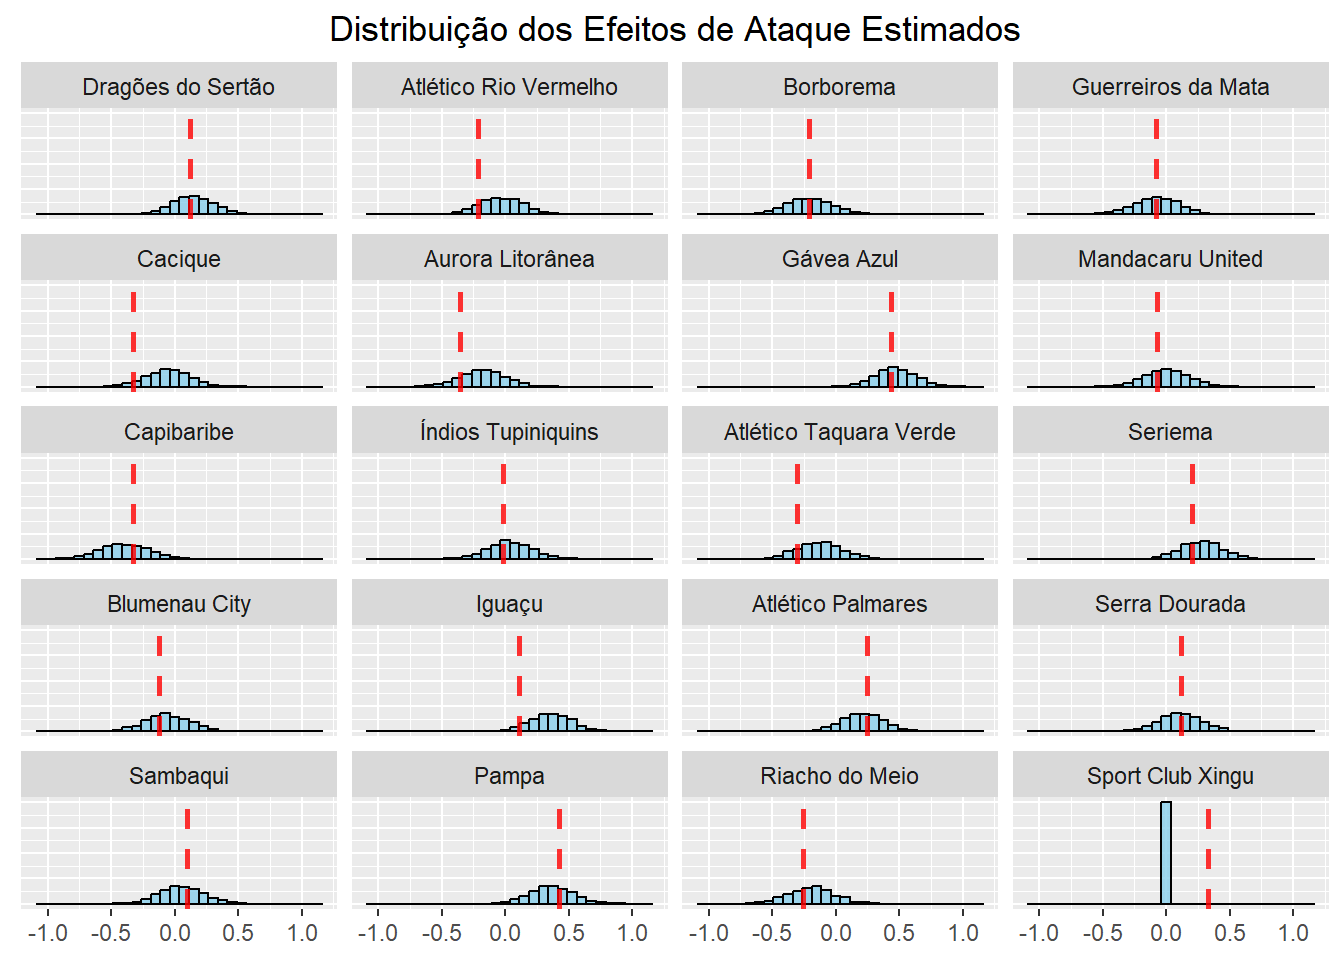
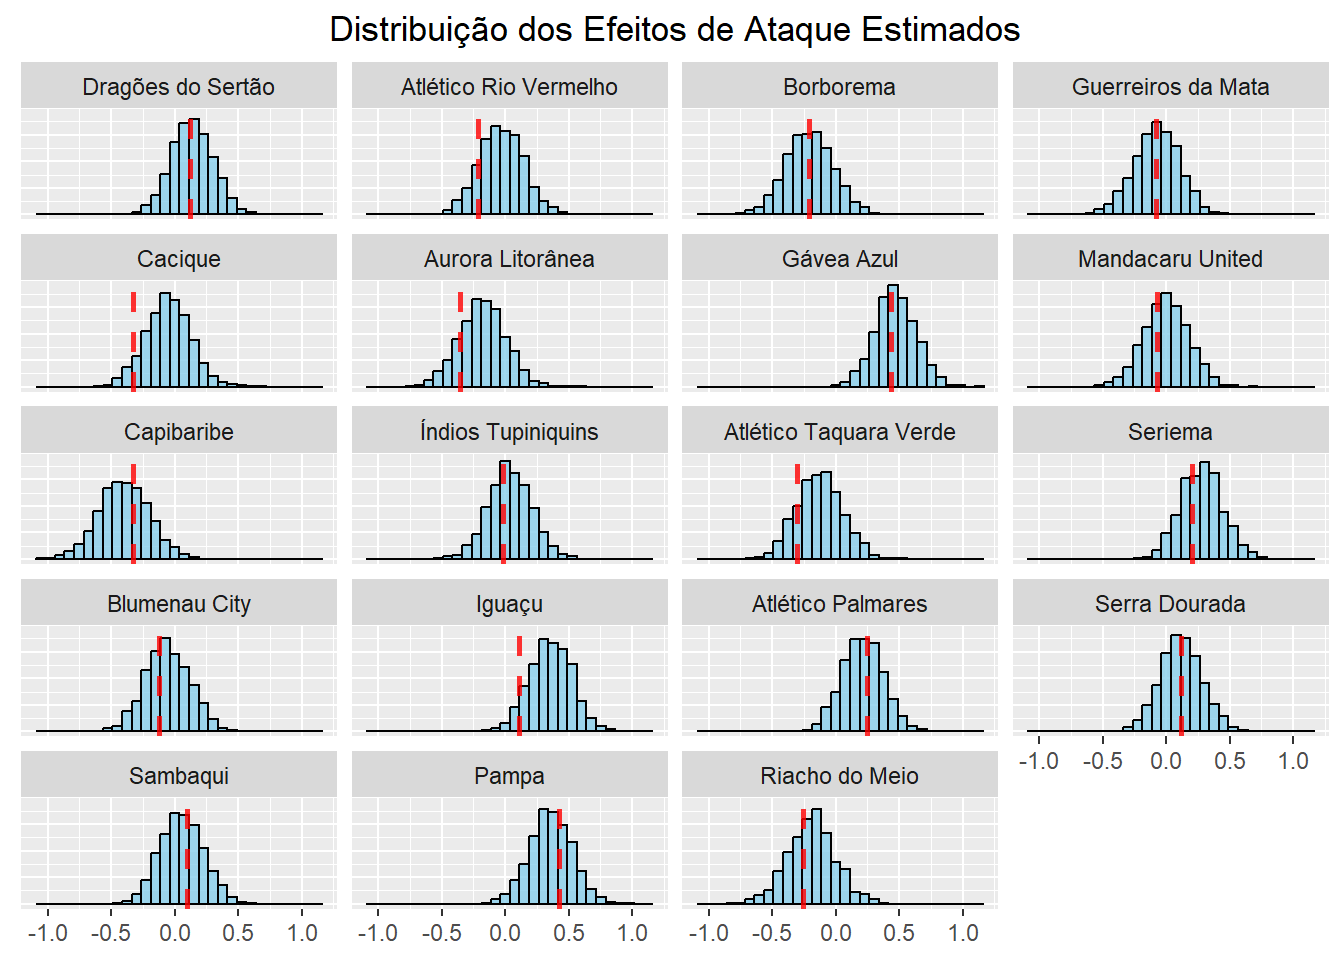
feat: melhoria na visualizacao de dados

diff --git a/models/modelo_baio_identificavel.html b/models/modelo_baio_identificavel.html
@@ -137,8 +137,8 @@ pre > code.sourceCode > span > a:first-child::before { text-decoration: underlin
 <span id="cb2-18"><a href="#cb2-18" aria-hidden="true" tabindex="-1"></a>games <span class="ot">&lt;-</span> games[games<span class="sc">$</span>h <span class="sc">!=</span> games<span class="sc">$</span>a, ]</span></code><button title="Copy to Clipboard" class="code-copy-button"><i class="bi"></i></button></pre></div>
 </div>
 </section>
-<section id="definindo-os-valores-reais" class="level2">
-<h2 class="anchored" data-anchor-id="definindo-os-valores-reais">Definindo os valores reais</h2>
+<section id="definindo-os-parâmetros-dos-dados-gerados" class="level2">
+<h2 class="anchored" data-anchor-id="definindo-os-parâmetros-dos-dados-gerados">Definindo os parâmetros dos dados gerados:</h2>
 <div class="cell">
 <div class="sourceCode cell-code" id="cb3"><pre class="sourceCode r code-with-copy"><code class="sourceCode r"><span id="cb3-1"><a href="#cb3-1" aria-hidden="true" tabindex="-1"></a><span class="fu">set.seed</span>(<span class="dv">40</span>)</span>
 <span id="cb3-2"><a href="#cb3-2" aria-hidden="true" tabindex="-1"></a></span>
@@ -161,11 +161,11 @@ pre > code.sourceCode > span > a:first-child::before { text-decoration: underlin
 <li><span class="math inline">\(\mu_{def}\)</span> = 0</li>
 <li><span class="math inline">\(\sigma_{def}\)</span> = 0.25</li>
 </ul>
-<p>Esses foram os efeitos de ataque e defesa escolhidos:</p>
+<p>Esses foram os efeitos de ataque e defesa gerados:</p>
 <div class="cell">
 <div class="cell-output-display">
 <div class="plotly html-widget html-fill-item-overflow-hidden html-fill-item" id="htmlwidget-b32bc6107752a4b385b4" style="width:100%;height:464px;"></div>
-<script type="application/json" data-for="htmlwidget-b32bc6107752a4b385b4">{"x":{"data":[{"x":[0.12404570570257763,-0.21489607540103661,-0.20726498892861925,-0.080393270840732403,-0.32594259944260784,-0.35537164980086799,0.43622873629283371,-0.072069840050869791,-0.32721643002939865,-0.017363047174886702,-0.30623166885461256,0.20224906526078701,-0.12303758491878661,0.11317348359166357,0.24990827398354223,0.11675740048395834,0.094012998194473466,0.42587273845452517,-0.25886537947427418,0.33203052487367601],"y":[-0.14857177733007984,0.40282114564135157,-0.27816845698426773,-0.36504574484796881,0.18303899449134448,-0.40258485803352906,0.083016840587409366,0.19021403909454412,-0.46341738721844689,0.1977878923141049,-0.32043509816517302,-0.19496933459931057,0.35958556957393567,-0.058707385734845602,0.1530492852758846,-0.36461765827587395,0.060692266972867469,-0.079348027861282755,0.21484333308068645,0.33603876775544694],"text":["Dragões do Sertão","Atlético Rio Vermelho","Borborema","Guerreiros da Mata","Cacique","Aurora Litorânea","Gávea Azul","Mandacaru United","Capibaribe","Índios Tupiniquins","Atlético Taquara Verde","Seriema","Blumenau City","Iguaçu","Atlético Palmares","Serra Dourada","Sambaqui","Pampa","Riacho do Meio","Sport Club Xingu"],"type":"scatter","mode":"markers","marker":{"autocolorscale":false,"color":"rgba(0,0,0,1)","opacity":1,"size":5.6692913385826778,"symbol":"circle","line":{"width":1.8897637795275593,"color":"rgba(0,0,0,1)"}},"hoveron":"points","showlegend":false,"xaxis":"x","yaxis":"y","hoverinfo":"text","frame":null},{"x":[-0.39495166910555307,0.47580875559751878],"y":[0,0],"text":"","type":"scatter","mode":"lines","line":{"width":1.8897637795275593,"color":"rgba(255,0,0,1)","dash":"dash"},"hoveron":"points","showlegend":false,"xaxis":"x","yaxis":"y","hoverinfo":"text","frame":null},{"x":[0,0],"y":[-0.50672931386143683,0.44613307228434151],"text":"","type":"scatter","mode":"lines","line":{"width":1.8897637795275593,"color":"rgba(255,0,0,1)","dash":"dash"},"hoveron":"points","showlegend":false,"xaxis":"x","yaxis":"y","hoverinfo":"text","frame":null}],"layout":{"margin":{"t":26.228310502283104,"r":7.3059360730593621,"b":40.182648401826491,"l":54.794520547945211},"plot_bgcolor":"rgba(235,235,235,1)","paper_bgcolor":"rgba(255,255,255,1)","font":{"color":"rgba(0,0,0,1)","family":"","size":14.611872146118724},"xaxis":{"domain":[0,1],"automargin":true,"type":"linear","autorange":false,"range":[-0.39495166910555307,0.47580875559751878],"tickmode":"array","ticktext":["-0.2","0.0","0.2","0.4"],"tickvals":[-0.20000000000000001,0,0.20000000000000012,0.40000000000000008],"categoryorder":"array","categoryarray":["-0.2","0.0","0.2","0.4"],"nticks":null,"ticks":"outside","tickcolor":"rgba(51,51,51,1)","ticklen":3.6529680365296811,"tickwidth":0.66417600664176002,"showticklabels":true,"tickfont":{"color":"rgba(77,77,77,1)","family":"","size":11.68949771689498},"tickangle":-0,"showline":false,"linecolor":null,"linewidth":0,"showgrid":true,"gridcolor":"rgba(255,255,255,1)","gridwidth":0.66417600664176002,"zeroline":false,"anchor":"y","title":{"text":"Efeito de Ataque","font":{"color":"rgba(0,0,0,1)","family":"","size":14.611872146118724}},"hoverformat":".2f"},"yaxis":{"domain":[0,1],"automargin":true,"type":"linear","autorange":false,"range":[-0.50672931386143683,0.44613307228434151],"tickmode":"array","ticktext":["-0.50","-0.25","0.00","0.25"],"tickvals":[-0.5,-0.25,0,0.25],"categoryorder":"array","categoryarray":["-0.50","-0.25","0.00","0.25"],"nticks":null,"ticks":"outside","tickcolor":"rgba(51,51,51,1)","ticklen":3.6529680365296811,"tickwidth":0.66417600664176002,"showticklabels":true,"tickfont":{"color":"rgba(77,77,77,1)","family":"","size":11.68949771689498},"tickangle":-0,"showline":false,"linecolor":null,"linewidth":0,"showgrid":true,"gridcolor":"rgba(255,255,255,1)","gridwidth":0.66417600664176002,"zeroline":false,"anchor":"x","title":{"text":"Efeito de Defesa","font":{"color":"rgba(0,0,0,1)","family":"","size":14.611872146118724}},"hoverformat":".2f"},"shapes":[{"type":"rect","fillcolor":null,"line":{"color":null,"width":0,"linetype":[]},"yref":"paper","xref":"paper","x0":0,"x1":1,"y0":0,"y1":1}],"showlegend":false,"legend":{"bgcolor":"rgba(255,255,255,1)","bordercolor":"transparent","borderwidth":1.8897637795275593,"font":{"color":"rgba(0,0,0,1)","family":"","size":11.68949771689498}},"hovermode":"closest","barmode":"relative"},"config":{"doubleClick":"reset","modeBarButtonsToAdd":["hoverclosest","hovercompare"],"showSendToCloud":false,"displayModeBar":false},"source":"A","attrs":{"27287e6d675b":{"x":{},"y":{},"text":{},"type":"scatter"},"2728681d4127":{"yintercept":{}},"27283a4b3f8c":{"xintercept":{}}},"cur_data":"27287e6d675b","visdat":{"27287e6d675b":["function (y) ","x"],"2728681d4127":["function (y) ","x"],"27283a4b3f8c":["function (y) ","x"]},"highlight":{"on":"plotly_click","persistent":false,"dynamic":false,"selectize":false,"opacityDim":0.20000000000000001,"selected":{"opacity":1},"debounce":0},"shinyEvents":["plotly_hover","plotly_click","plotly_selected","plotly_relayout","plotly_brushed","plotly_brushing","plotly_clickannotation","plotly_doubleclick","plotly_deselect","plotly_afterplot","plotly_sunburstclick"],"base_url":"https://plot.ly"},"evals":[],"jsHooks":[]}</script>
+<script type="application/json" data-for="htmlwidget-b32bc6107752a4b385b4">{"x":{"data":[{"x":[0.12404570570257763,-0.21489607540103661,-0.20726498892861925,-0.080393270840732403,-0.32594259944260784,-0.35537164980086799,0.43622873629283371,-0.072069840050869791,-0.32721643002939865,-0.017363047174886702,-0.30623166885461256,0.20224906526078701,-0.12303758491878661,0.11317348359166357,0.24990827398354223,0.11675740048395834,0.094012998194473466,0.42587273845452517,-0.25886537947427418,0.33203052487367601],"y":[-0.14857177733007984,0.40282114564135157,-0.27816845698426773,-0.36504574484796881,0.18303899449134448,-0.40258485803352906,0.083016840587409366,0.19021403909454412,-0.46341738721844689,0.1977878923141049,-0.32043509816517302,-0.19496933459931057,0.35958556957393567,-0.058707385734845602,0.1530492852758846,-0.36461765827587395,0.060692266972867469,-0.079348027861282755,0.21484333308068645,0.33603876775544694],"text":["Dragões do Sertão","Atlético Rio Vermelho","Borborema","Guerreiros da Mata","Cacique","Aurora Litorânea","Gávea Azul","Mandacaru United","Capibaribe","Índios Tupiniquins","Atlético Taquara Verde","Seriema","Blumenau City","Iguaçu","Atlético Palmares","Serra Dourada","Sambaqui","Pampa","Riacho do Meio","Sport Club Xingu"],"type":"scatter","mode":"markers","marker":{"autocolorscale":false,"color":"rgba(0,0,0,1)","opacity":1,"size":5.6692913385826778,"symbol":"circle","line":{"width":1.8897637795275593,"color":"rgba(0,0,0,1)"}},"hoveron":"points","showlegend":false,"xaxis":"x","yaxis":"y","hoverinfo":"text","frame":null},{"x":[-0.39495166910555307,0.47580875559751878],"y":[0,0],"text":"","type":"scatter","mode":"lines","line":{"width":1.8897637795275593,"color":"rgba(255,0,0,1)","dash":"dash"},"hoveron":"points","showlegend":false,"xaxis":"x","yaxis":"y","hoverinfo":"text","frame":null},{"x":[0,0],"y":[-0.50672931386143683,0.44613307228434151],"text":"","type":"scatter","mode":"lines","line":{"width":1.8897637795275593,"color":"rgba(255,0,0,1)","dash":"dash"},"hoveron":"points","showlegend":false,"xaxis":"x","yaxis":"y","hoverinfo":"text","frame":null}],"layout":{"margin":{"t":26.228310502283104,"r":7.3059360730593621,"b":40.182648401826491,"l":54.794520547945211},"plot_bgcolor":"rgba(235,235,235,1)","paper_bgcolor":"rgba(255,255,255,1)","font":{"color":"rgba(0,0,0,1)","family":"","size":14.611872146118724},"xaxis":{"domain":[0,1],"automargin":true,"type":"linear","autorange":false,"range":[-0.39495166910555307,0.47580875559751878],"tickmode":"array","ticktext":["-0.2","0.0","0.2","0.4"],"tickvals":[-0.20000000000000001,0,0.20000000000000012,0.40000000000000008],"categoryorder":"array","categoryarray":["-0.2","0.0","0.2","0.4"],"nticks":null,"ticks":"outside","tickcolor":"rgba(51,51,51,1)","ticklen":3.6529680365296811,"tickwidth":0.66417600664176002,"showticklabels":true,"tickfont":{"color":"rgba(77,77,77,1)","family":"","size":11.68949771689498},"tickangle":-0,"showline":false,"linecolor":null,"linewidth":0,"showgrid":true,"gridcolor":"rgba(255,255,255,1)","gridwidth":0.66417600664176002,"zeroline":false,"anchor":"y","title":{"text":"Efeito de Ataque","font":{"color":"rgba(0,0,0,1)","family":"","size":14.611872146118724}},"hoverformat":".2f"},"yaxis":{"domain":[0,1],"automargin":true,"type":"linear","autorange":false,"range":[-0.50672931386143683,0.44613307228434151],"tickmode":"array","ticktext":["-0.50","-0.25","0.00","0.25"],"tickvals":[-0.5,-0.25,0,0.25],"categoryorder":"array","categoryarray":["-0.50","-0.25","0.00","0.25"],"nticks":null,"ticks":"outside","tickcolor":"rgba(51,51,51,1)","ticklen":3.6529680365296811,"tickwidth":0.66417600664176002,"showticklabels":true,"tickfont":{"color":"rgba(77,77,77,1)","family":"","size":11.68949771689498},"tickangle":-0,"showline":false,"linecolor":null,"linewidth":0,"showgrid":true,"gridcolor":"rgba(255,255,255,1)","gridwidth":0.66417600664176002,"zeroline":false,"anchor":"x","title":{"text":"Efeito de Defesa","font":{"color":"rgba(0,0,0,1)","family":"","size":14.611872146118724}},"hoverformat":".2f"},"shapes":[{"type":"rect","fillcolor":null,"line":{"color":null,"width":0,"linetype":[]},"yref":"paper","xref":"paper","x0":0,"x1":1,"y0":0,"y1":1}],"showlegend":false,"legend":{"bgcolor":"rgba(255,255,255,1)","bordercolor":"transparent","borderwidth":1.8897637795275593,"font":{"color":"rgba(0,0,0,1)","family":"","size":11.68949771689498}},"hovermode":"closest","barmode":"relative"},"config":{"doubleClick":"reset","modeBarButtonsToAdd":["hoverclosest","hovercompare"],"showSendToCloud":false,"displayModeBar":false},"source":"A","attrs":{"4b8654d4c56":{"x":{},"y":{},"text":{},"type":"scatter"},"4b88ab5c0e":{"yintercept":{}},"4b872af3e9c":{"xintercept":{}}},"cur_data":"4b8654d4c56","visdat":{"4b8654d4c56":["function (y) ","x"],"4b88ab5c0e":["function (y) ","x"],"4b872af3e9c":["function (y) ","x"]},"highlight":{"on":"plotly_click","persistent":false,"dynamic":false,"selectize":false,"opacityDim":0.20000000000000001,"selected":{"opacity":1},"debounce":0},"shinyEvents":["plotly_hover","plotly_click","plotly_selected","plotly_relayout","plotly_brushed","plotly_brushing","plotly_clickannotation","plotly_doubleclick","plotly_deselect","plotly_afterplot","plotly_sunburstclick"],"base_url":"https://plot.ly"},"evals":[],"jsHooks":[]}</script>
 </div>
 </div>
 </section>
